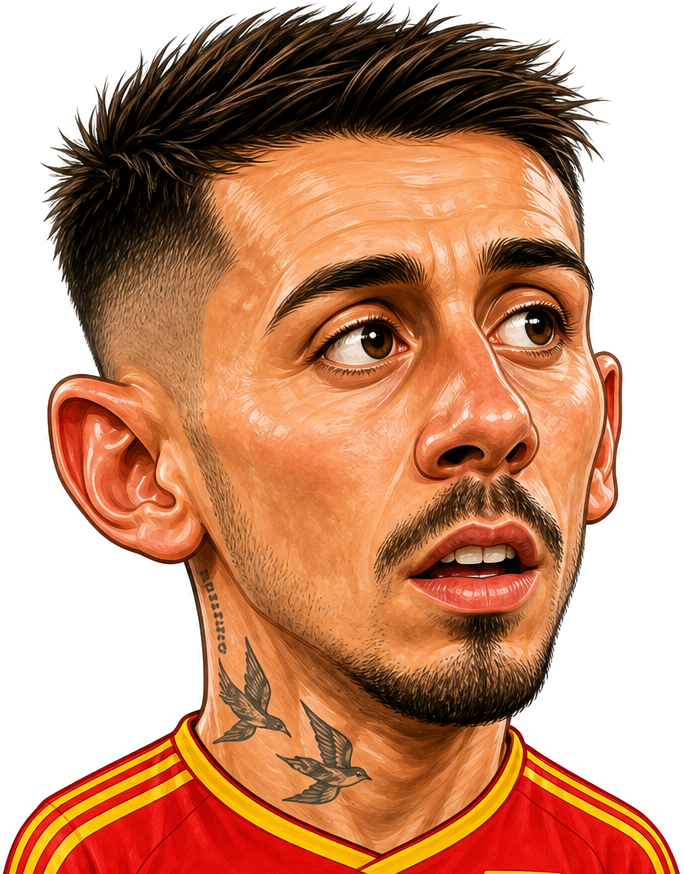
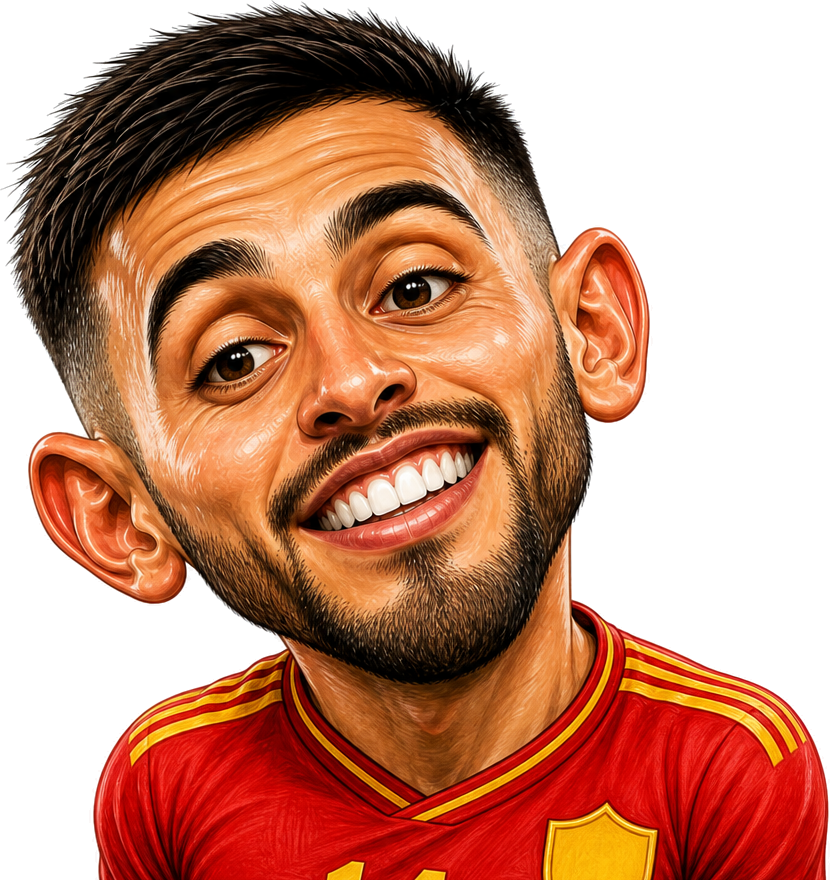
Subir caricaturas nuevas de imagenes-jugadores y ampliar mapa de carpetas.
Las fotos se sirven desde GitHub raw en producción; incluye selecciones con carpeta local (ARG, BRA, CAN, USA, etc.).

diff --git a/backend/src/data/wikipediaSquadCountryMap.js b/backend/src/data/wikipediaSquadCountryMap.js
@@ -65,14 +65,32 @@ export const WIKIPEDIA_NON_TEAM_SECTIONS = new Set([
 
 /** Carpeta en imagenes-jugadores/ cuando existe caricatura (opcional). */
 export const FIFA_TO_PHOTO_FOLDER = {
+  ALG: 'argelia',
   ARG: 'argentina',
-  ESP: 'espana',
-  URU: 'uruguay',
-  MEX: 'mexico',
-  KOR: 'corea',
   AUS: 'australia',
-  USA: 'estados-unidos',
+  AUT: 'austria',
+  BIH: 'bosnia',
+  BRA: 'brasil',
   CAN: 'canada',
+  CIV: 'costa-de-marfil',
+  CPV: 'cabo-verde',
+  ESP: 'espana',
+  GHA: 'ghana',
+  HAI: 'haiti',
+  IRN: 'iran',
+  JOR: 'jordania',
+  JPN: 'japon',
+  KOR: 'corea',
+  MAR: 'marruecos',
+  MEX: 'mexico',
+  NED: 'paises-bajos',
+  PAN: 'panama',
+  POR: 'portugal',
+  QAT: 'catar',
+  SCO: 'escocia',
+  URU: 'uruguay',
+  USA: 'estados-unidos',
+  UZB: 'uzbekistan',
 };
 
 export function fifaCodeForWikipediaCountry(countryName) {

diff --git a/backend/src/services/playerPhotoService.js b/backend/src/services/playerPhotoService.js
@@ -11,13 +11,32 @@ export const PLAYER_PHOTOS_DIR = join(REPO_ROOT, 'imagenes-jugadores');
 
 /** Carpetas en imagenes-jugadores → código FIFA */
 export const TEAM_FOLDER_TO_FIFA = {
+  argelia: 'ALG',
   argentina: 'ARG',
-  espana: 'ESP',
-  uruguay: 'URU',
-  mexico: 'MEX',
-  corea: 'KOR',
   australia: 'AUS',
+  austria: 'AUT',
+  bosnia: 'BIH',
+  brasil: 'BRA',
+  'cabo-verde': 'CPV',
+  canada: 'CAN',
+  catar: 'QAT',
+  corea: 'KOR',
+  'costa-de-marfil': 'CIV',
+  escocia: 'SCO',
+  espana: 'ESP',
   'estados-unidos': 'USA',
+  ghana: 'GHA',
+  haiti: 'HAI',
+  iran: 'IRN',
+  japon: 'JPN',
+  jordania: 'JOR',
+  marruecos: 'MAR',
+  mexico: 'MEX',
+  'paises-bajos': 'NED',
+  panama: 'PAN',
+  portugal: 'POR',
+  uruguay: 'URU',
+  uzbekistan: 'UZB',
 };
 
 export function slugifyPlayerName(value) {